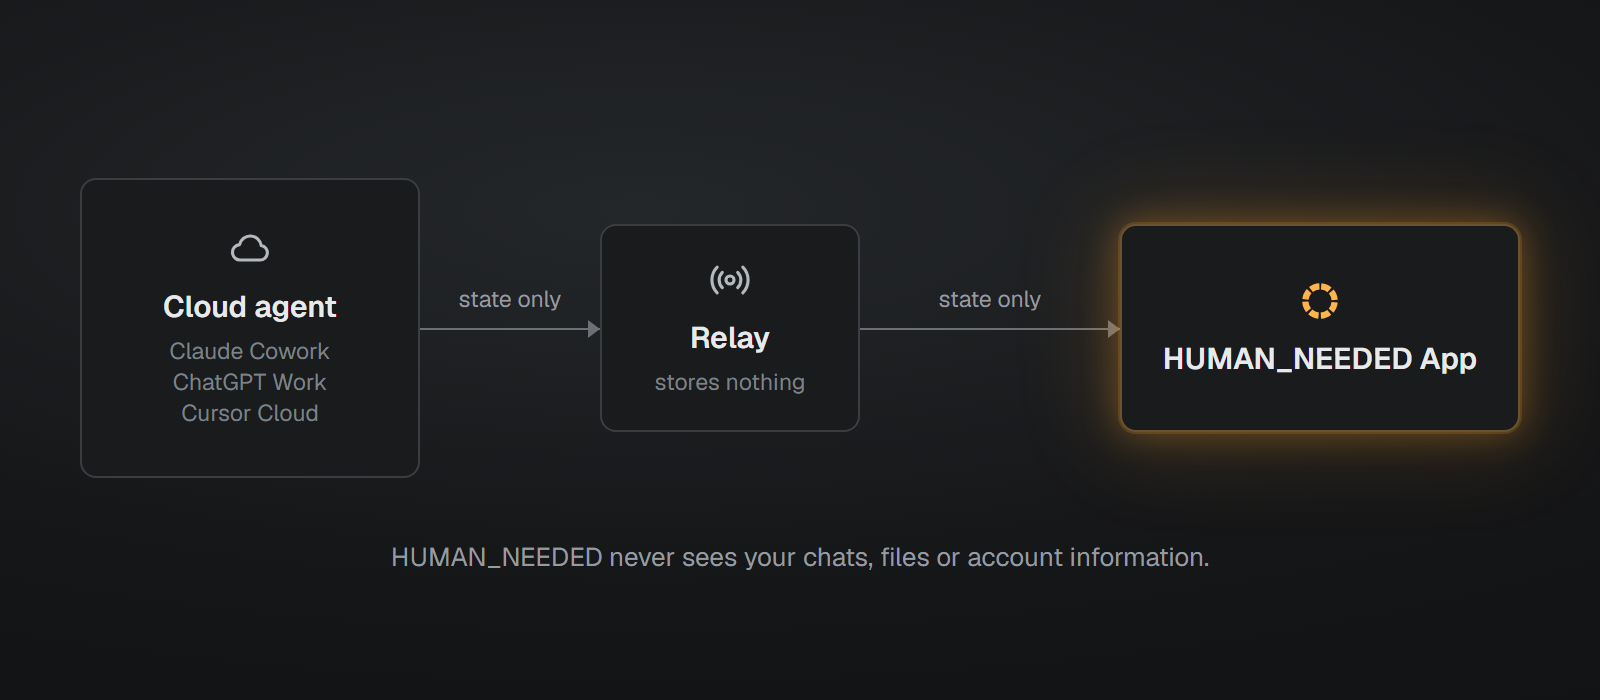
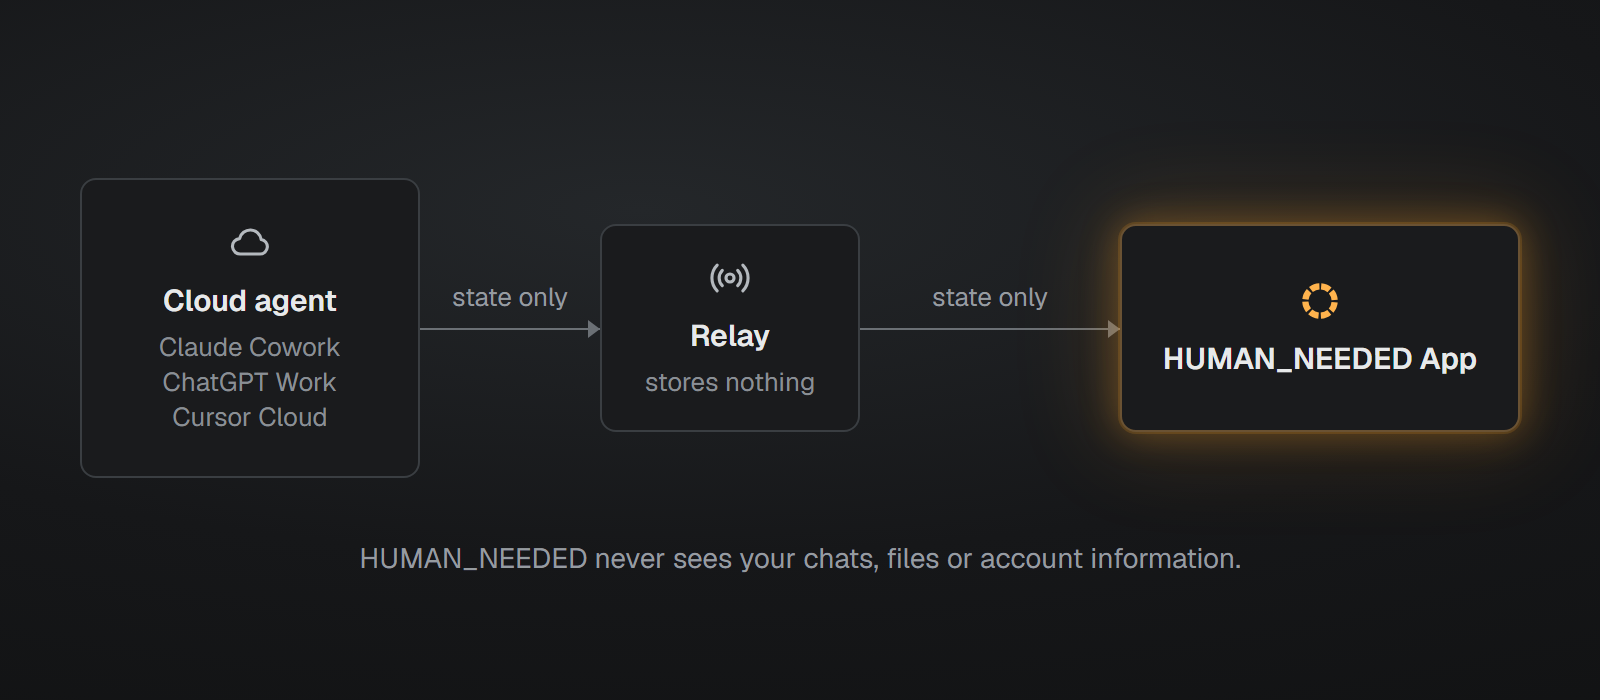
README: 2x images, hero as animated WebP (#87)

diff --git a/README.md b/README.md
@@ -10,7 +10,7 @@
 <a href="https://github.com/human-needed/app/releases/latest"><img src="https://img.shields.io/badge/Windows-Download-24292f?style=for-the-badge&logo=windows&logoColor=white" alt="Download for Windows"></a>
 <img src="https://img.shields.io/badge/macOS-Coming_soon-8b949e?style=for-the-badge&logo=apple&logoColor=white" alt="macOS: coming soon">
 
-<img src="docs/images/hero.gif" alt="An AI agent works, then asks for permission: the screen edges pulse orange. After the click it finishes: the edges pulse green." width="800">
+<img src="docs/images/hero.webp" alt="An AI agent works, then asks for permission: the screen edges pulse orange. After the click it finishes: the edges pulse green." width="800">
 
 </div>
 
@@ -29,7 +29,7 @@ something else and forget it's waiting for you. HUMAN_NEEDED watches for you.
 ## Make it yours
 
 <p align="center">
-<img src="docs/images/panel.png" alt="The HUMAN_NEEDED panel next to the Needs you settings: light, colour, brightness, duration, sound and volume" width="700">
+<img src="docs/images/panel.png" alt="The HUMAN_NEEDED panel next to the Needs you settings: light, colour, brightness, duration, sound and volume" width="800">
 </p>
 
 - **Fully customizable.** Colour, light, brightness, duration and sound for each state, or keep
